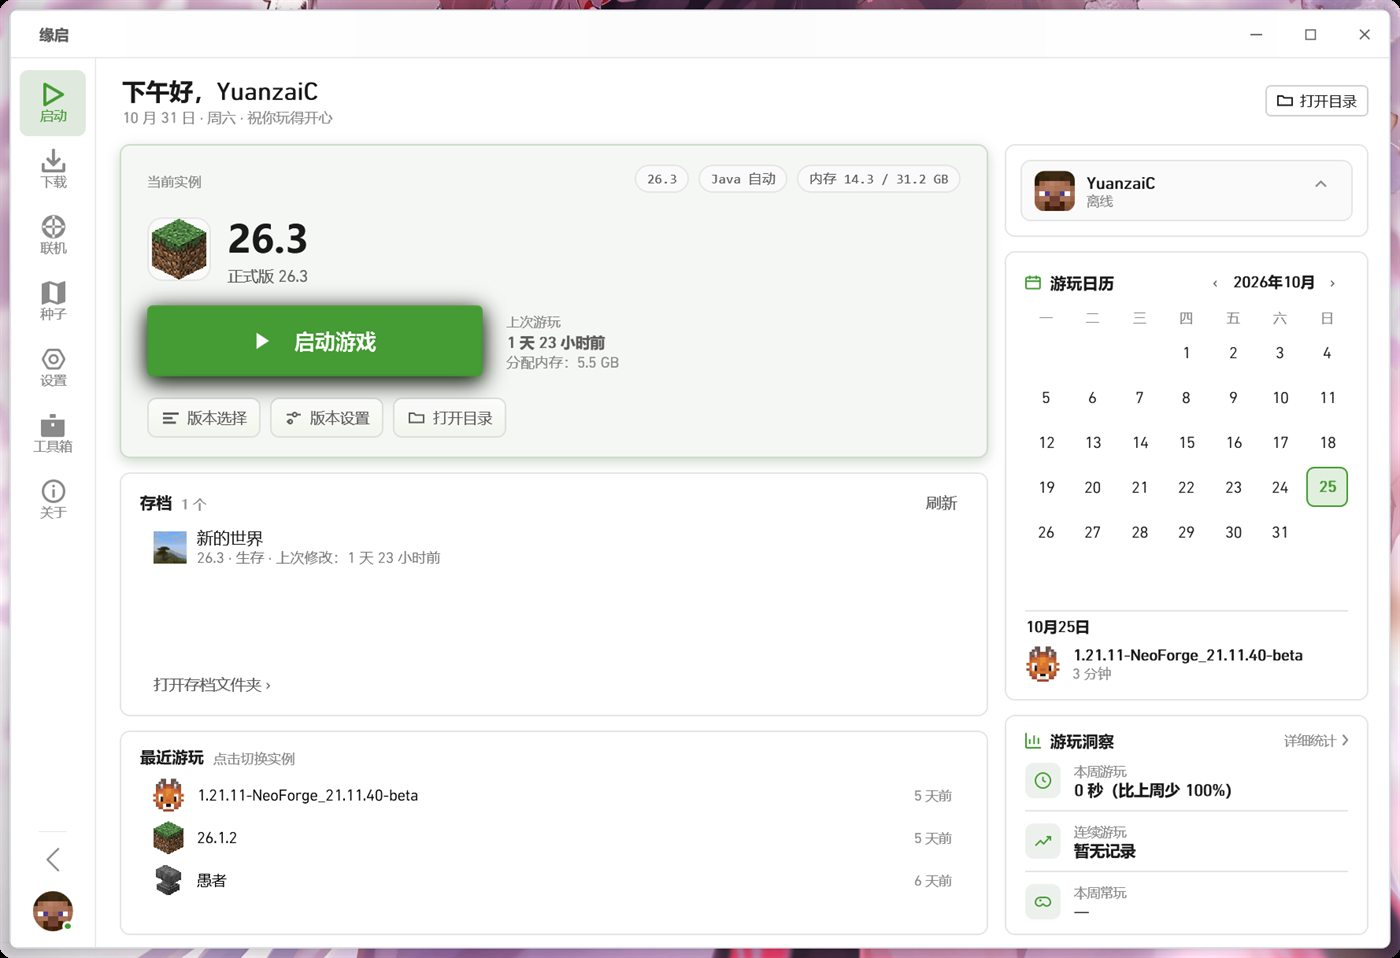
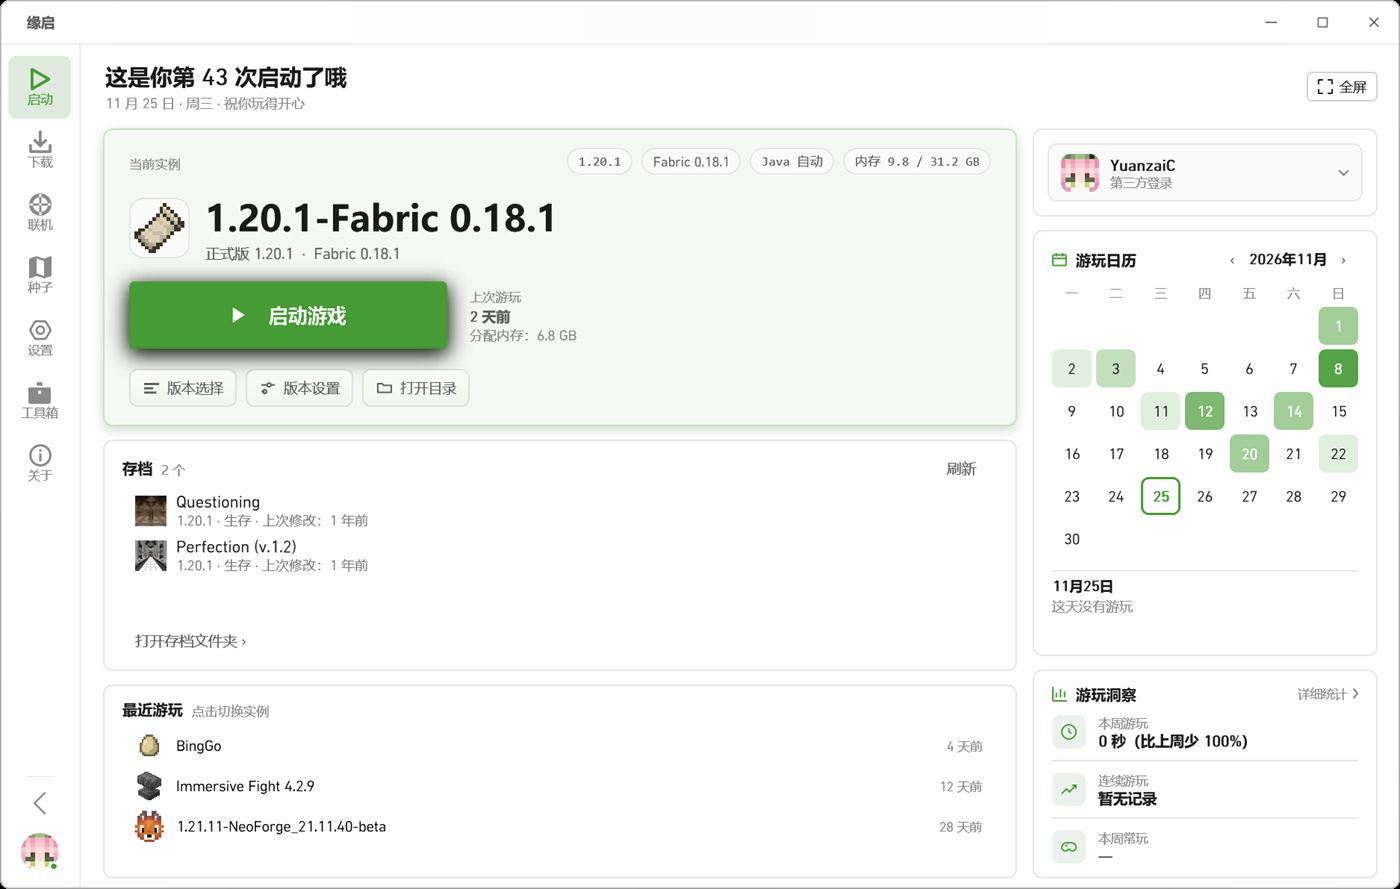
官网：换成新版截图素材，画廊补上矿石分布与游戏统计

diff --git a/index.html b/index.html
@@ -110,7 +110,7 @@
             <i></i><i></i><i></i>
             <span>缘启</span>
           </div>
-          <img src="assets/img/shot-home.jpg" alt="缘启首页：当前实例、存档、游玩日历与游玩洞察" width="1400" height="958">
+          <img src="assets/img/shot-home.jpg" alt="缘启首页：当前实例、存档、游玩日历与游玩洞察" width="1400" height="889">
         </figure>
 
         <div class="float-card float-card--ver" data-depth="18">
@@ -315,35 +315,42 @@
     <div class="gallery__viewport" id="galleryViewport">
       <div class="gallery__track" id="galleryTrack">
         <figure class="shot reveal">
-          <div class="frame"><img src="assets/img/shot-home.jpg" alt="启动页：当前实例、存档、游玩日历、游玩洞察" width="1400" height="958" loading="lazy"></div>
-          <figcaption><b>01 启动</b><span>版本、存档、日历，一屏看完</span></figcaption>
+          <div class="frame"><img src="assets/img/shot-home.jpg" alt="启动页：当前实例、存档、游玩日历、游玩洞察" width="1400" height="889" loading="lazy"></div>
+          <figcaption><b>01 启动</b><span>实例、存档、日历与洞察，一屏看完</span></figcaption>
         </figure>
         <figure class="shot reveal" style="--d:.04s">
-          <div class="frame"><img src="assets/img/shot-download.jpg" alt="下载页：原版游戏与社区资源" width="1400" height="958" loading="lazy"></div>
-          <figcaption><b>02 下载</b><span>原版游戏与社区资源分开放</span></figcaption>
+          <div class="frame"><img src="assets/img/shot-download.jpg" alt="下载页：原版游戏与社区资源" width="1400" height="889" loading="lazy"></div>
+          <figcaption><b>02 下载</b><span>社区资源搜索：下载量、更新时间与来源站</span></figcaption>
         </figure>
         <figure class="shot reveal" style="--d:.08s">
-          <div class="frame"><img src="assets/img/shot-link.jpg" alt="联机页：创建房间与加入房间" width="1400" height="958" loading="lazy"></div>
+          <div class="frame"><img src="assets/img/shot-link.jpg" alt="联机页：创建房间与加入房间" width="1400" height="889" loading="lazy"></div>
           <figcaption><b>03 联机</b><span>建房或凭邀请码加入</span></figcaption>
         </figure>
         <figure class="shot reveal" style="--d:.12s">
-          <div class="frame"><img src="assets/img/shot-seedmap.jpg" alt="种子地图：主世界地形与结构标记" width="1400" height="958" loading="lazy"></div>
+          <div class="frame"><img src="assets/img/shot-seedmap.jpg" alt="种子地图：主世界地形与结构标记" width="1400" height="889" loading="lazy"></div>
           <figcaption><b>04 种子地图</b><span>本地渲染，地形结构随你筛</span></figcaption>
         </figure>
         <figure class="shot reveal" style="--d:.16s">
-          <div class="frame"><img src="assets/img/shot-save.jpg" alt="存档概览：种子、版本、大小、玩家" width="1400" height="966" loading="lazy"></div>
-          <figcaption><b>05 存档 · 概览</b><span>种子、体积、玩家与时间</span></figcaption>
+          <div class="frame"><img src="assets/img/shot-save.jpg" alt="存档概览：种子、版本、大小、玩家" width="1400" height="889" loading="lazy"></div>
+          <figcaption><b>05 存档 · 概览</b><span>种子、版本、大小、玩家与所在目录</span></figcaption>
         </figure>
         <figure class="shot reveal" style="--d:.2s">
-          <div class="frame"><img src="assets/img/shot-save-world.jpg" alt="存档世界页签" width="1400" height="966" loading="lazy"></div>
-          <figcaption><b>06 存档 · 世界</b><span>页签横排，切起来不费劲</span></figcaption>
+          <div class="frame"><img src="assets/img/shot-save-world.jpg" alt="版本管理：可安装版本与已归档版本，显示占用与压缩比" width="1400" height="889" loading="lazy"></div>
+          <figcaption><b>06 版本管理</b><span>可安装与已归档分开列，占用一目了然</span></figcaption>
         </figure>
         <figure class="shot reveal" style="--d:.24s">
-          <div class="frame"><img src="assets/img/shot-colortext.jpg" alt="彩色文字生成器：渐变、颜色、实时预览" width="1400" height="958" loading="lazy"></div>
+          <div class="frame"><img src="assets/img/shot-colortext.jpg" alt="彩色文字生成器：渐变、颜色、实时预览" width="1400" height="889" loading="lazy"></div>
           <figcaption><b>07 彩色文字</b><span>边调边看，直接复制</span></figcaption>
         </figure>
-        <figure class="shot reveal" style="--d:.28s">
-          <div class="frame"><img src="assets/img/shot-command.jpg" alt="指令查询：组件候选与示例" width="1400" height="958" loading="lazy"></div>
+        <figure class="shot reveal" style="--d:.32s">
+          <div class="frame"><img src="assets/img/shot-ore.jpg" alt="矿石分布：按 Y 层给出挖掘建议与该层命中的生成规则" width="1400" height="889" loading="lazy"></div>
+          <figcaption><b>09 矿石分布</b><span>按 Y 层看矿，挖之前先算</span></figcaption>
+        </figure>
+        <figure class="shot reveal" style="--d:.36s">
+          <div class="frame"><img src="assets/img/shot-stats.jpg" alt="游戏统计：总时长、每日曲线、实例排行与时段分布" width="1400" height="889" loading="lazy"></div>
+          <figcaption><b>10 游戏统计</b><span>这个月玩了多久，一目了然</span></figcaption>
+        </figure>        <figure class="shot reveal" style="--d:.28s">
+          <div class="frame"><img src="assets/img/shot-command.jpg" alt="指令查询：组件候选与示例" width="1400" height="889" loading="lazy"></div>
           <figcaption><b>08 指令查询</b><span>候选列在下面，点一下就填</span></figcaption>
         </figure>
       </div>
@@ -408,7 +415,7 @@
 <!-- ============ 04 种子地图 ============ -->
 <section class="seedmap" id="seedmap">
   <div class="seedmap__media" aria-hidden="true">
-    <img src="assets/img/seedmap-crop.jpg" alt="" width="1300" height="1107" loading="lazy" id="seedmapImg">
+    <img src="assets/img/seedmap-crop.jpg" alt="" width="1400" height="889" loading="lazy" id="seedmapImg">
   </div>
   <div class="container seedmap__inner">
     <p class="kicker kicker--light reveal"><i>04</i>种子地图</p>
@@ -510,7 +517,7 @@
 
       <aside class="sleep reveal" style="--d:.1s">
         <div class="sleep__media">
-          <img src="assets/img/immersive.jpg" alt="休眠观赏页：全屏全景、左下角时间与版本号" width="1280" height="720" loading="lazy">
+          <img src="assets/img/immersive.jpg" alt="休眠观赏页：全屏全景、左下角时间与版本号" width="1400" height="875" loading="lazy">
           <span class="sleep__esc">ESC 或点击任意处返回</span>
         </div>
         <div class="sleep__body">
